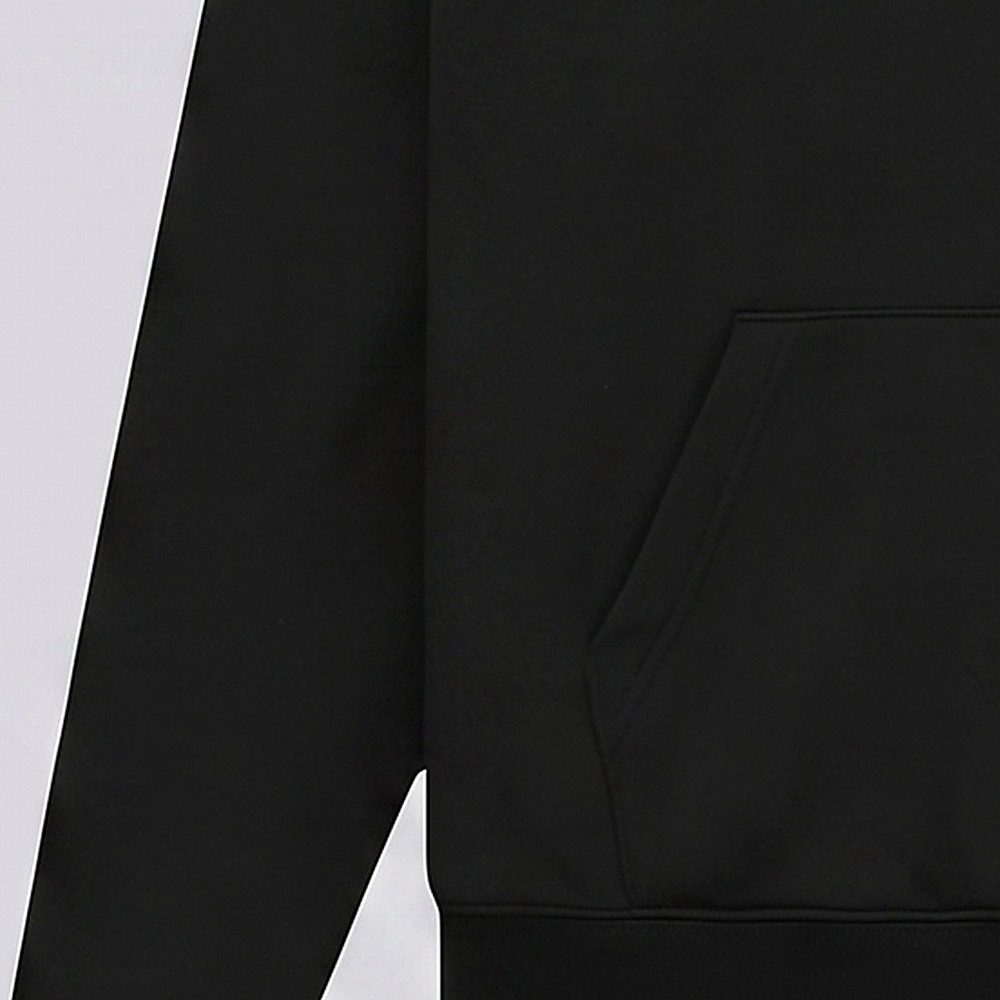
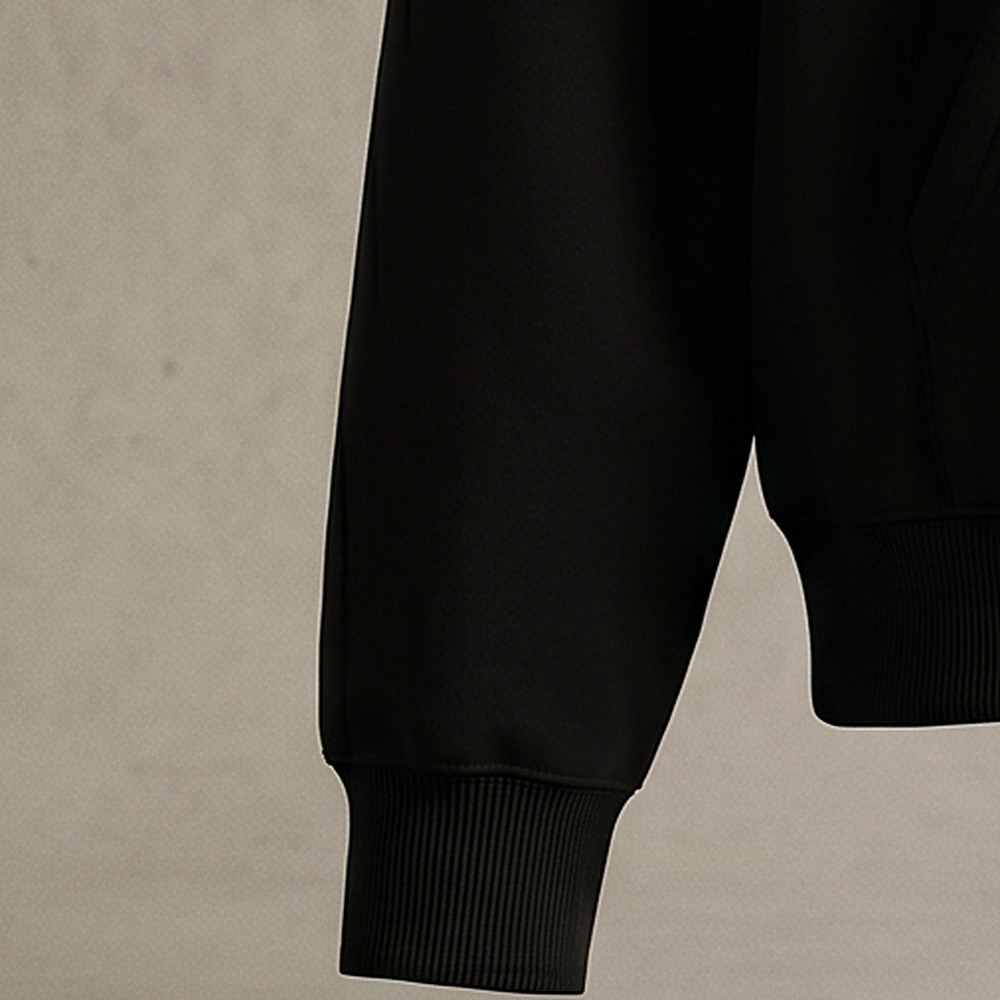
Fix product photos: varied angles, single bg, correct labels (Essentials + Alo black)
Addresses live-site feedback:
- Essentials hoodies/tees: removed the AI-hallucinated label on the hood
  exterior and the t-shirt front; only the real ESSENTIALS/FEAR OF GOD
  chest text + authentic inner-neck tab remain.
- Variety of angles per product: front / side / back / product-only / logo
  (no more repeated angles).
- Single harmonized background (warm concrete studio) per product; dropped
  the clashing white-bg stock photos.
- Alo black: metallic chrome 'alo' logo + drawstrings with metal tips.
- Calidad crops re-done with clean framing (no drawstrings/chin/cut logos).
- catalog_photos now skips products whose v2 photos aren't generated yet
  (Grey/Navy/Espresso/Crewneck keep current photos until regenerated).

diff --git a/store/management/commands/catalog_photos.py b/store/management/commands/catalog_photos.py
@@ -1,38 +1,36 @@
 """
-Fotos web para Essentials (hoodies + playeras) y Crewneck Navy.
+Fotos web unificadas para TODO el catálogo (Alo + Essentials + Crewneck).
 
-Asigna fotos IA (calidad estudio, mismo look que las Alo) generadas con
-image-to-image desde las fotos reales, conservando los logos reales
-(ESSENTIALS / FEAR OF GOD, alo). Todo es ASIGNACIÓN de rutas a archivos ya
-versionados en media/products/{ai,features}; no procesa imágenes. Idempotente.
+Cada producto: 5 fotos con variedad de ángulos y UN solo fondo (estudio de
+concreto cálido) para armonía visual:
+  principal = frente (modelo) · galería = [lado, espalda, producto sin modelo, logo]
+Calidad: recortes nítidos con encuadre limpio (sin cordones/barbilla), 1000px.
 
-  Galería por producto (5 fotos): modelo IA (principal) + producto frente IA +
-  producto espalda IA + foto real frente + foto real espalda.
-  Calidad (4): recortes nítidos 2K en media/products/features/calidad-<slug>-<i>.jpg
+Las imágenes se generan con image-to-image (Gemini) desde las fotos reales,
+conservando logos/colores reales. Aquí solo se ASIGNAN rutas a archivos ya
+versionados en media/products/{ai/v2, features}. Idempotente; corre en build.sh.
 
     python manage.py catalog_photos
 """
+from django.conf import settings
 from django.core.management.base import BaseCommand
 
 from store.models import Product, ProductImage
 
-# slug -> (real_front, real_back)
-REAL = {
-    "hoodie-essentials-negra":  ("products/colors/negra.jpeg",          "products/gallery/negra-2.jpeg"),
-    "hoodie-essentials-gris":   ("products/colors/gris.jpeg",           "products/gallery/gris-2.jpeg"),
-    "hoodie-essentials-blanca": ("products/colors/blanca.jpeg",         "products/gallery/blanca-2.jpeg"),
-    "playera-essentials-negra": ("products/colors/negra_qke4OBM.jpeg",  "products/gallery/negra-2_Bvypcq0.jpeg"),
-    "playera-essentials-gris":  ("products/colors/gris_iCSh2gS.jpeg",   "products/gallery/gris-2_mM3PDpV.jpeg"),
-    "playera-essentials-blanca":("products/colors/blanca_oLbbsBF.jpeg", "products/gallery/blanca-2_4WIEAJt.jpeg"),
-    "crewneck-navy":            ("products/colors/navy_JWqkkTB.jpeg",   "products/gallery/navy-2_WXwwQ6L.jpeg"),
-}
+SLUGS = [
+    "hoodie-alo-black", "hoodie-alo-grey", "hoodie-alo-navy", "hoodie-alo-espresso",
+    "crewneck-navy",
+    "hoodie-essentials-negra", "hoodie-essentials-gris", "hoodie-essentials-blanca",
+    "playera-essentials-negra", "playera-essentials-gris", "playera-essentials-blanca",
+]
+GALLERY_VIEWS = ["side", "back", "prod", "logo"]   # principal = front
 
 
 class Command(BaseCommand):
-    help = "Fotos web (IA + reales) para Essentials y Crewneck."
+    help = "Fotos web unificadas (5 ángulos, fondo único) + Calidad para todo el catálogo."
 
     def handle(self, *args, **opts):
-        for slug, (real_front, real_back) in REAL.items():
+        for slug in SLUGS:
             product = Product.objects.filter(slug=slug).first()
             if not product:
                 continue
@@ -40,25 +38,25 @@ class Command(BaseCommand):
             if not color:
                 continue
 
-            # principal = modelo IA
-            color.image = f"products/ai/{slug}-model.jpg"
+            # solo actualiza si las fotos v2 ya existen (despliegue parcial seguro)
+            needed = [f"products/ai/v2/{slug}-{v}.jpg" for v in ["front"] + GALLERY_VIEWS]
+            if not all((settings.MEDIA_ROOT / p).exists() for p in needed):
+                self.stdout.write(f"  · {product.name} — sin fotos v2, se deja como está")
+                continue
+
+            color.image = f"products/ai/v2/{slug}-front.jpg"
             color.save(update_fields=["image"])
 
-            # galería: limpia filas (NO borra archivos: las reales se reusan)
             ProductImage.objects.filter(product=product, color=color).delete()
-            gallery = [
-                f"products/ai/{slug}-front.jpg",
-                f"products/ai/{slug}-back.jpg",
-                real_front,
-                real_back,
-            ]
-            for i, path in enumerate(gallery):
-                ProductImage.objects.create(product=product, color=color, sort_order=i, image=path)
+            for i, view in enumerate(GALLERY_VIEWS):
+                ProductImage.objects.create(
+                    product=product, color=color, sort_order=i,
+                    image=f"products/ai/v2/{slug}-{view}.jpg",
+                )
 
-            # Calidad: recortes 2K por sort_order
             for feat in product.features.all():
                 feat.image = f"products/features/calidad-{slug}-{feat.sort_order}.jpg"
                 feat.save(update_fields=["image"])
 
             self.stdout.write(f"  ✓ {product.name}")
-        self.stdout.write(self.style.SUCCESS("Fotos Essentials/Crewneck actualizadas."))
+        self.stdout.write(self.style.SUCCESS("Catálogo: fotos (5 ángulos, fondo único) + Calidad actualizadas."))
